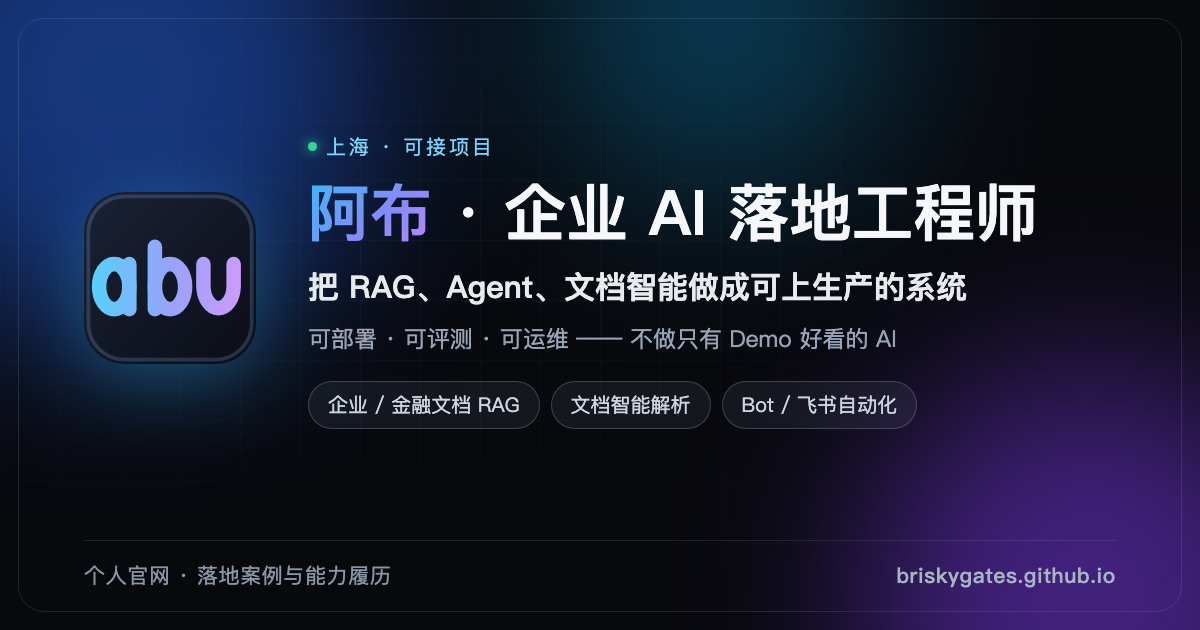
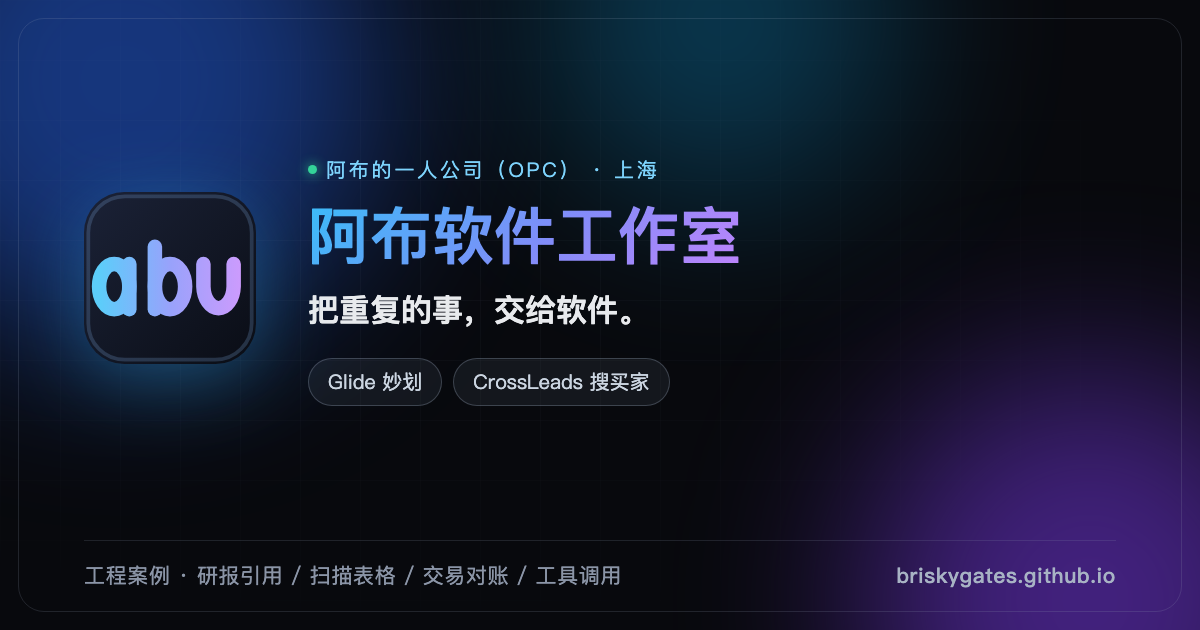
feat(branding): align OPC identity and regenerate search and sharing assets

Changed region(s): [[0.2467, 0.2111, 0.8633, 0.6635], [0.0617, 0.8746, 0.5242, 0.9349], [0.6167, 0.6032, 0.7708, 0.6635]]

diff --git a/scripts/generate-icons.js b/scripts/generate-icons.js
@@ -15,6 +15,8 @@
 const fs = require('node:fs');
 const path = require('node:path');
 const { chromium } = require('@playwright/test');
+const { escapeHtml } = require('./lib/escape');
+const { profile, ui } = require('../assets/data/homeConfig.json');
 
 const root = path.join(__dirname, '..');
 const imgDir = path.join(root, 'assets', 'img');
@@ -79,6 +81,8 @@ function buildIco(entries) {
 }
 
 function ogCoverHtml() {
+    const { feature, casebook } = ui.studio;
+    const caseLabels = ['report', 'scan', 'ledger', 'tools'].map(key => casebook.reader[key].navShort);
     return `<!DOCTYPE html>
 <html lang="zh-CN"><head><meta charset="utf-8">
 <style>
@@ -108,7 +112,7 @@ function ogCoverHtml() {
   }
   .emblem { width: 172px; height: 172px; flex: 0 0 auto; filter: drop-shadow(0 16px 38px rgba(56,189,248,.32)); }
   .emblem svg { width: 100%; height: 100%; display: block; }
-  .text { padding-top: 6px; }
+  .text { min-width: 0; padding-top: 6px; }
   .eyebrow {
     display: inline-flex; align-items: center; gap: 9px;
     font-size: 20px; letter-spacing: .14em; color: #7dd3fc; margin-bottom: 18px;
@@ -119,8 +123,7 @@ function ogCoverHtml() {
     background: ${BRAND_GRADIENT};
     -webkit-background-clip: text; background-clip: text; color: transparent;
   }
-  .role { margin-top: 18px; font-size: 31px; font-weight: 600; color: #e8eaed; white-space: nowrap; }
-  .desc { margin-top: 14px; font-size: 23px; color: #9aa4b6; white-space: nowrap; }
+  .role { margin-top: 18px; font-size: 31px; font-weight: 600; color: #e8eaed; }
   .chips { margin-top: 26px; display: flex; gap: 11px; }
   .chip {
     font-size: 20px; padding: 9px 19px; border-radius: 999px; color: #cbd5e1; white-space: nowrap;
@@ -141,18 +144,16 @@ function ogCoverHtml() {
   <div class="cover">
     <div class="emblem">${readFaviconSvg()}</div>
     <div class="text">
-      <div class="eyebrow"><i></i>上海 · 可接项目</div>
-      <h1><span class="gradient-text">阿布</span> · 企业 AI 落地工程师</h1>
-      <div class="role">把 RAG、Agent、文档智能做成可上生产的系统</div>
-      <div class="desc">可部署 · 可评测 · 可运维 —— 不做只有 Demo 好看的 AI</div>
+      <div class="eyebrow"><i></i>${escapeHtml(feature.author)}</div>
+      <h1><span class="gradient-text">${escapeHtml(profile.studioName)}</span></h1>
+      <div class="role">${escapeHtml(profile.heroTitle)}</div>
       <div class="chips">
-        <span class="chip">企业 / 金融文档 RAG</span>
-        <span class="chip">文档智能解析</span>
-        <span class="chip">Bot / 飞书自动化</span>
+        <span class="chip">${escapeHtml(feature.glide.name)}</span>
+        <span class="chip">${escapeHtml(feature.freight.name)}</span>
       </div>
     </div>
   </div>
-  <div class="footer"><span>个人官网 · 落地案例与能力履历</span><b>briskygates.github.io</b></div>
+  <div class="footer"><span>${escapeHtml(casebook.heading)} · ${escapeHtml(caseLabels.join(' / '))}</span><b>briskygates.github.io</b></div>
 </body></html>`;
 }
 

diff --git a/_includes/json-ld.html b/_includes/json-ld.html
@@ -6,8 +6,8 @@
       "@type": "Person",
       "@id": "https://briskygates.github.io/#person",
       "name": "阿布",
-      "description": "我是 阿布（独立工程专家 / 一人技术工作室） 。专注帮企业技术团队攻克 金融研报精准召回、复杂多版面文档智能解析与生产级 Agent 对账闭环 。只做可上线、可观测、有明确全职人力替代投资回报的私有化工程交付。",
-      "jobTitle": "Enterprise AI Production Engineer",
+      "description": "我是阿布，在上海经营一家做软件的一人公司（OPC）。我开发 Glide 和 CrossLeads 搜买家，也为企业做金融研报检索、复杂 PDF 解析和自动对账。",
+      "jobTitle": "一人公司（OPC）主理人",
       "image": "https://briskygates.github.io/assets/img/og-cover.png",
       "url": "https://briskygates.github.io",
       "sameAs": [
@@ -37,15 +37,15 @@
       ],
       "worksFor": {
         "@type": "Organization",
-        "name": "Independent / Freelance"
+        "name": "阿布软件工作室"
       }
     },
     {
       "@type": "WebSite",
       "@id": "https://briskygates.github.io/#website",
       "url": "https://briskygates.github.io",
-      "name": "阿布 · 一人公司商业级 AI 落地 | 专注金融投研 RAG、复杂文档智能与生产级 Agent 对账",
-      "description": "帮企业 1 号位用确定性的私有化 AI 引擎替代重复人力，年砍 40-60 万刚性成本。提供 1.5 万现状技术诊断包、2-3 周标杆工程交付全案与常年架构顾问，拒接无边界需求，拒绝免费 POC。",
+      "name": "阿布软件工作室 · 一人公司（OPC）的产品与工程案例",
+      "description": "阿布在上海经营一人公司（OPC），开发 Glide 和 CrossLeads 搜买家，也为企业做研报检索、文档解析和自动对账。",
       "author": {
         "@id": "https://briskygates.github.io/#person"
       },
@@ -58,8 +58,8 @@
       "@type": "ProfilePage",
       "@id": "https://briskygates.github.io/#profilepage",
       "url": "https://briskygates.github.io",
-      "name": "阿布 · 一人公司商业级 AI 落地 | 专注金融投研 RAG、复杂文档智能与生产级 Agent 对账",
-      "description": "帮企业 1 号位用确定性的私有化 AI 引擎替代重复人力，年砍 40-60 万刚性成本。提供 1.5 万现状技术诊断包、2-3 周标杆工程交付全案与常年架构顾问，拒接无边界需求，拒绝免费 POC。",
+      "name": "阿布软件工作室 · 一人公司（OPC）的产品与工程案例",
+      "description": "阿布在上海经营一人公司（OPC），开发 Glide 和 CrossLeads 搜买家，也为企业做研报检索、文档解析和自动对账。",
       "mainEntity": {
         "@id": "https://briskygates.github.io/#person"
       },

diff --git a/scripts/lib/llms-generator.js b/scripts/lib/llms-generator.js
@@ -52,6 +52,13 @@ function generateLlmsFull(config, lang = 'zh') {
     }
     lines.push('');
 
+    const story = ui.studio?.deliveryStory;
+    if (story) {
+        lines.push(`## ${story.eyebrow} · ${story.title}`, '', story.intro, '');
+        for (const step of story.steps) lines.push(`### ${step.title}`, step.body, '');
+        lines.push(`[${story.entryLabel}](https://briskygates.github.io/#glide-delivery)`, '');
+    }
+
     if (config.featured?.items?.length) {
         lines.push(`## ${config.featured.title}`);
         lines.push('');
@@ -127,6 +134,27 @@ function generateLlmsFull(config, lang = 'zh') {
             lines.push(service.description);
             if (service.technologies?.length) {
                 lines.push(`技术: ${service.technologies.join(', ')}`);
+            }
+            lines.push('');
+        });
+    }
+
+    if (config.projects?.items?.length) {
+        lines.push(`## ${config.projects.title || '自研上线软件 · 独立产品'}`);
+        lines.push('');
+        if (config.projects.subtitle) {
+            lines.push(`> ${config.projects.subtitle}`);
+            lines.push('');
+        }
+        config.projects.items.forEach(p => {
+            lines.push(`### ${p.name} (${p.platform})`);
+            lines.push(`- 官网/体验链接: ${p.url}`);
+            lines.push(`- 本地仓库: ${p.repo}`);
+            lines.push(`- 状态: ${p.badge}`);
+            lines.push(`- 概述: ${p.title}`);
+            lines.push(`- 详情: ${p.description}`);
+            if (p.tags && p.tags.length) {
+                lines.push(`- 标签: ${p.tags.join(', ')}`);
             }
             lines.push('');
         });

diff --git a/scripts/lib/jsonld-generator.js b/scripts/lib/jsonld-generator.js
@@ -30,7 +30,7 @@ function generateJsonLd(config, siteUrl = 'https://briskygates.github.io') {
                 '@id': `${siteUrl}/#person`,
                 name: profile.name,
                 description: stripHtml(profile.greeting?.description || ui.pageDescription || ''),
-                jobTitle: 'Enterprise AI Production Engineer',
+                jobTitle: profile.tagline,
                 image: `${siteUrl}/assets/img/og-cover.png`,
                 url: siteUrl,
                 sameAs: [
@@ -39,10 +39,10 @@ function generateJsonLd(config, siteUrl = 'https://briskygates.github.io') {
                     'https://afdian.com/a/abuai'
                 ],
                 knowsAbout: [...knowsAbout],
-                worksFor: {
+                worksFor: profile.studioName ? {
                     '@type': 'Organization',
-                    name: 'Independent / Freelance'
-                }
+                    name: profile.studioName
+                } : undefined
             },
             {
                 '@type': 'WebSite',
